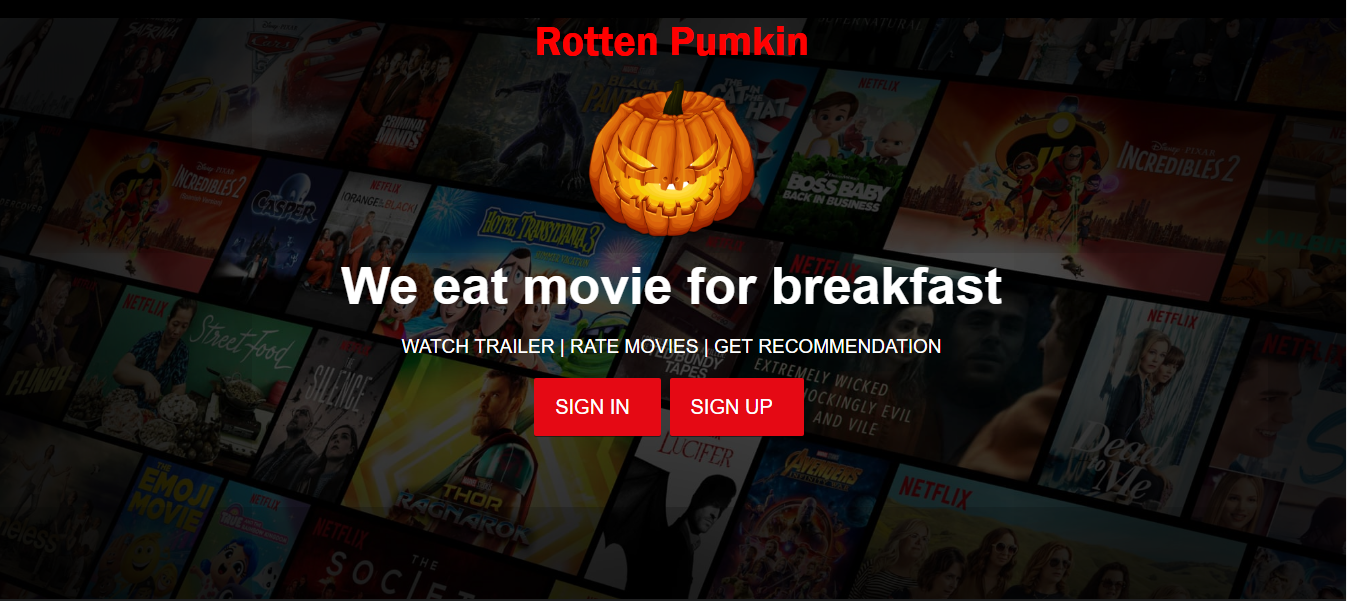
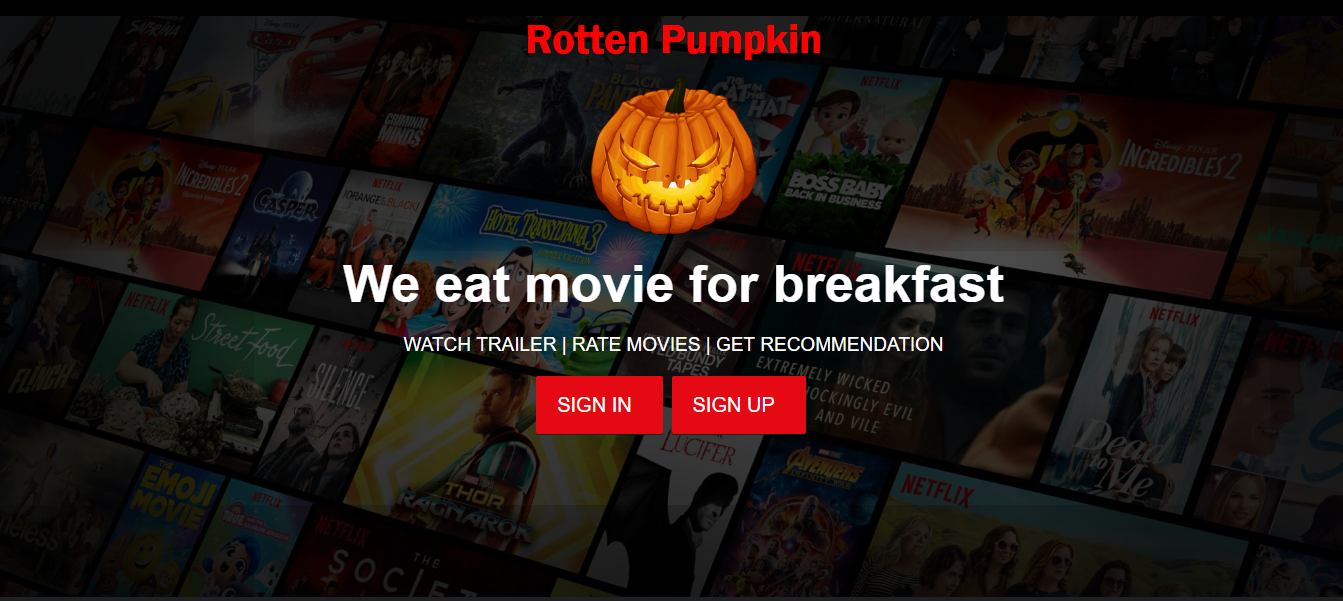
landing png updated

diff --git a/index.html b/index.html
@@ -13,7 +13,7 @@
   <body>
     <header class="showcase">
       <div class="showcase-top text-center">
-        <h1 style="font-family:'Franklin Gothic Medium', 'Arial Narrow', Arial, sans-serif;font-size: 42px;color:red">Rotten Pumkin</h1>
+        <h1 style="font-family:'Franklin Gothic Medium', 'Arial Narrow', Arial, sans-serif;font-size: 42px;color:red">Rotten Pumpkin</h1>
         <img class="center" src="image/pumkin.png" />
       </div>
       <div style="margin-top:150px" class="showcase-content">
